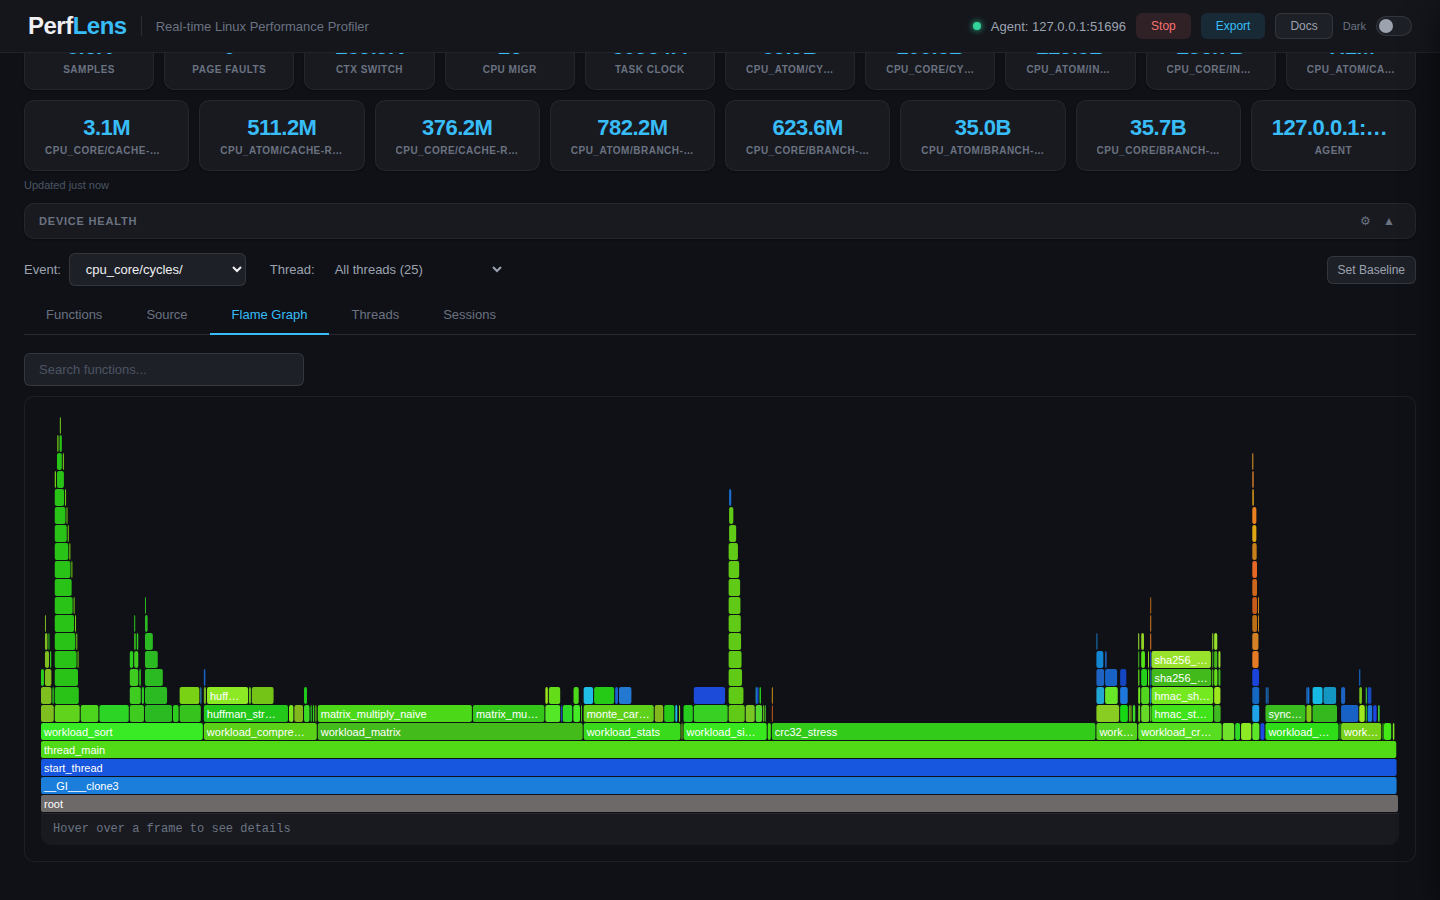
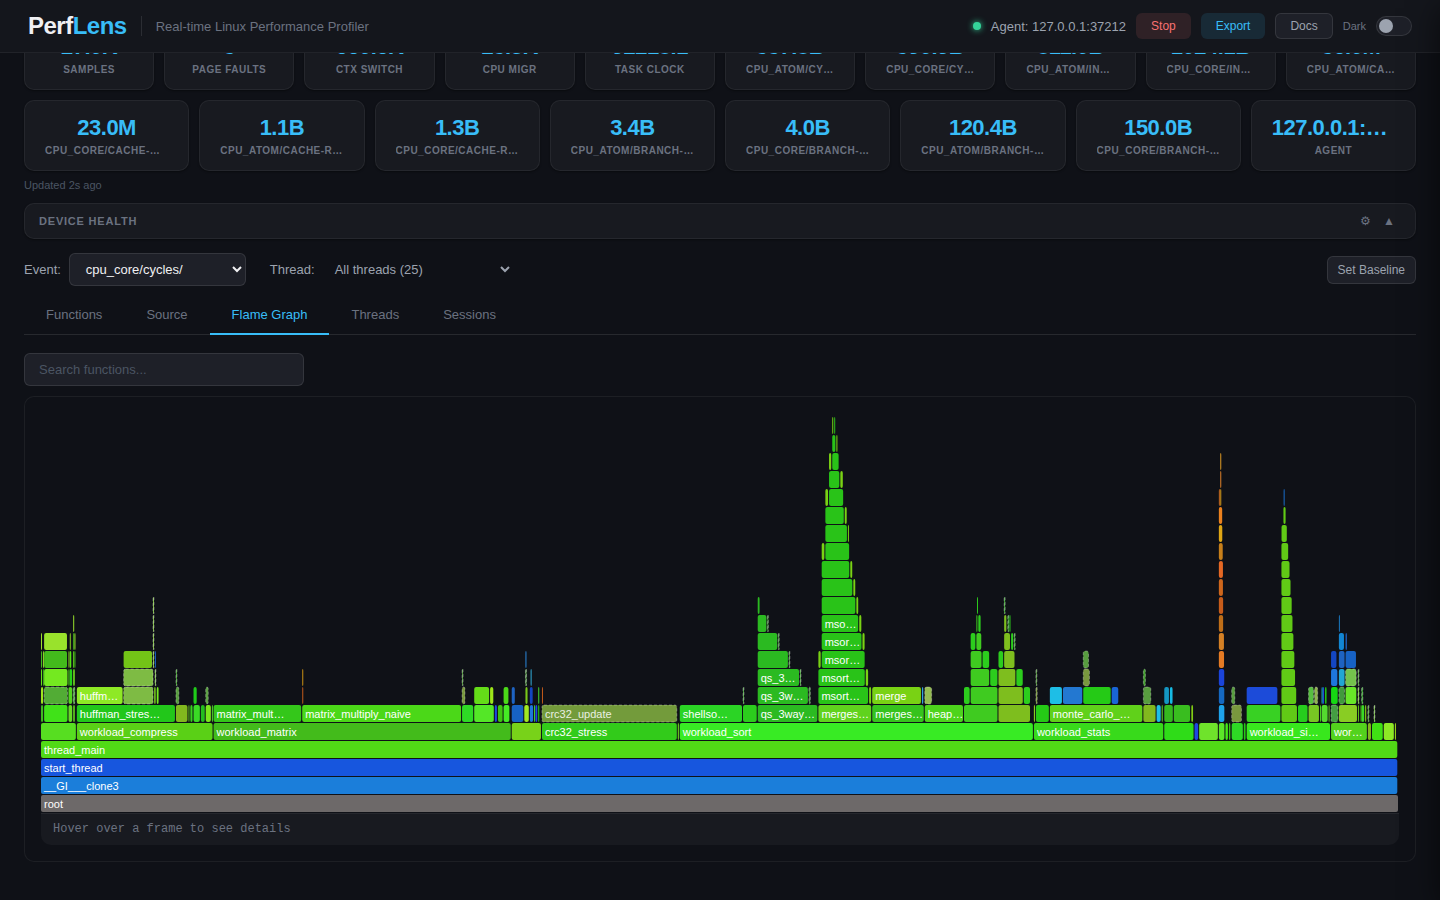
release: 0.9.0
Version bumped across all seven locations, agent rebuilt (VERSION is
compiled into it), schema and typegen regenerated. CHANGELOG's Unreleased
section becomes `## [0.9.0]`, which is what the release workflow
awk-extracts for the GitHub Release body — a missing heading yields
silently empty notes.

Docs assets regenerated, both halves in order and after the bump, since
the docs drawer renders the version and is itself one of the shots.
03-source.png had been advertising the annotation bug it was captured
before the fix for; it now shows the inner loop at 61.8% on L14.

The first live capture was re-shot. It caught the workload at a quiet
moment — 11.7K samples, 36.9% CPU — and made a visibly weaker hero than
0.8.0's. MIN_SAMPLES=90000 gave a denser one at 32.6K samples, 98.5% CPU,
384 functions. The floor is tunable and the default is not always enough
for the hero shot.

Three items are deferred to the next release rather than held for this
one, and CHANGELOG's Unreleased section now names them: the ~3 MB/min RSS
drift that survives the interning fix, big-endian being compile-only, and
build.yml still having no pull_request trigger.

diff --git a/src/perflens/__init__.py b/src/perflens/__init__.py
@@ -5,4 +5,4 @@ samples over TCP; this package is the receiving server: parsing,
 aggregation, source mapping, and the browser UI.
 """
 
-__version__ = '0.8.0'
+__version__ = '0.9.0'

diff --git a/STATUS.md b/STATUS.md
@@ -4,7 +4,7 @@ Cross-session working state. Update at the start and end of every working
 session. Release history lives in [CHANGELOG.md](CHANGELOG.md); this file
 is what is *currently true* and what is *left to do*.
 
-## Current phase — 0.9.0 in progress: the hands-on validation pass
+## Current phase — 0.9.0 released: the hands-on validation pass
 
 **0.9.0 is the validation 0.8.0 shipped without, and it found a real one.**
 The scope decision was taken deliberately (2026-08-13): rather than pick new
@@ -72,15 +72,16 @@ Current counts: **192 pytest** (was 165, then 152), 24 vitest, 10 Playwright.
 
 ### Where the work lives
 
-On branch **`validate-0.9.0`**, eleven commits, **not merged and not
-released**. Nothing is tagged and nothing went to PyPI. The first eight are
-pushed; the three device fixes are local at time of writing.
+Merged to master via [PR #2](https://github.com/harshithsunku/perflens/pull/2)
+and released as `v0.9.0`.
 
-Pushing the branch deliberately runs no CI: `test.yml` triggers on
-`push` to main/master plus `pull_request`, and `build.yml` on push to
-main/master plus `v*` tags. With no PR open, a feature-branch push fires
-neither. Opening a PR is what runs the gates — and is the next step when
-someone wants to review this.
+Worth keeping: pushing a feature branch runs **no** CI. `test.yml` triggers
+on push to main/master plus `pull_request`, `build.yml` on push to
+main/master plus `v*` tags, so a branch push with no PR open fires neither.
+Opening the PR is what ran the gates — and it failed on the first attempt,
+on `ruff` F811 (a duplicated import), which the local loop had never run.
+`ruff check src/ tests/ tools/` is step 2 of that job and belongs in any
+pre-push check.
 
 | | commit | what |
 |---|---|---|
@@ -95,6 +96,9 @@ someone wants to review this.
 | 9 | `24ffee2` | hybrid-CPU event resolution + halved per-sample memory |
 | 10 | `9bc4296` | agent `--update` asset from compile-time macros |
 | 11 | `3fcf947` | publish the 32-bit agent as `armv7` |
+| 12 | `8b526bc` | docs: the device pass, and what the devices disproved |
+| 13 | `35ca9d6` | drop a duplicated pytest import (ruff F811, caught by CI) |
+| 14 | (release) | version 0.9.0, CHANGELOG entry, regenerated docs assets |
 
 Verified green on the branch: 192 pytest, `check_version.py`, 24 vitest, 10
 Playwright, OpenAPI + typegen regenerated, and pytest in CI's no-UI
@@ -133,20 +137,28 @@ deliberate exception to the agent freeze.
       resolved fastapi 0.141.1 / starlette 1.6.0 / uvicorn 0.52.2 — newer
       than the dev venv and inside the upper bounds, so the caps were
       exercised rather than merely declared.
-- [ ] **Docs screenshots need regenerating.** `docs/screenshots/03-source.png`
-      now advertises the bug: it was captured 2026-08-13 07:25, before the
-      annotation fix, so it shows heat on a function's declaration line.
-      Run **both** halves — `npm run shots` then `npm run shots:live` —
-      never the first alone. `shots` overwrites the committed assets in
-      place from a fixture that has no resolvable binary, so committing its
-      output on its own downgrades seven shots to an `[unknown]`-at-73%
-      replay. That trap is now written down in `tools/README.md`; it caught
-      this session, mid-verification.
-- [ ] **The version is still 0.8.0, deliberately.** Not bumped: the fixes
-      are on a branch, unreviewed and unmerged, and bumping is step 1 of the
-      release recipe rather than part of the work. When it is time, bump
-      *before* reshooting the screenshots — the docs drawer renders the
-      version and is itself one of the shots.
+- [x] **Docs screenshots regenerated for 0.9.0.** `03-source.png` had been
+      advertising the bug — captured before the annotation fix, showing heat
+      on a function's declaration line. It now shows the inner loop at 61.8%
+      on L14. Both halves were run, in order, after the version bump.
+
+      The first live capture was re-shot: it caught the workload at a quiet
+      moment (11.7K samples, 36.9% CPU) and made a visibly weaker hero than
+      0.8.0's. `MIN_SAMPLES=90000` gave a denser one — 32.6K samples in the
+      selected event, 98.5% CPU, 384 functions. Worth knowing that the floor
+      is tunable and that the default is not always enough for the hero.
+
+      Both the old and new hero render PMU-qualified event names
+      (`CPU_ATOM/CY…`, `cpu_core/cycles/`) because the dev box is hybrid.
+      That is the status quo rather than a regression — 0.8.0's committed
+      shot has exactly the same naming — and `reference.html` now explains
+      it. A non-hybrid capture would read better; it needs a non-hybrid
+      machine.
+- [x] **Version bumped to 0.9.0** across all seven locations, agent rebuilt
+      (`VERSION` is compiled in), schema and typegen regenerated. The bump
+      landed *before* the screenshots on purpose: the docs drawer renders
+      the version and is itself one of the shots — `11-docs-drawer.png` now
+      reads v0.9.0.
 - [ ] **The response-model contract is still unenforced** — planned this
       pass, not done. `_json` returns a raw Starlette `Response`, and
       FastAPI skips `response_model` entirely when a handler does that, so

diff --git a/CHANGELOG.md b/CHANGELOG.md
@@ -7,11 +7,32 @@ releases may break APIs between minor versions when needed.
 
 ## [Unreleased]
 
+Nothing yet. Three items were deliberately deferred from 0.9.0 rather than
+held for it:
+
+- Server RSS still drifts ~3 MB/min after the sample ring fills, and did not
+  flatten within a 22-minute soak. The interning work below moved the
+  plateau from ~1.9 GB to ~1.1 GB but did not end the drift.
+- Big-endian is compile-only. All five agent targets build and the
+  byte-order audit is clean, but no big-endian hardware was available and
+  byte-order bugs are invisible on little-endian by construction.
+- `build.yml` still has no `pull_request` trigger, so wheel packaging and
+  the five agent cross-compiles remain post-merge discoveries.
+
+## [0.9.0] — 2026-08-14
+
 The hands-on validation pass 0.8.0 shipped without. Everything below was
 found by running the profiler against a real 25-thread workload and looking
 at the output — not by an assertion. The second half of the pass moved off
 the dev box entirely and onto two reference devices: an ARM64 phone running
 Kali and an x86_64 LXC container on a hybrid P/E-core host.
+
+**Upgrading:** no API or wire-protocol changes. The agent changed twice, and
+both are backward compatible — a 0.8.0 agent works against a 0.9.0 server,
+and the server recovers line numbers from the raw ip for agents that predate
+the `symoff` request. Users on 32-bit ARM should note that the release asset
+is now `perflens-agent-linux-armv7`; the `armv7l` name published for 0.8.0
+was never the one any installer asked for.
 
 ### Fixed
 
